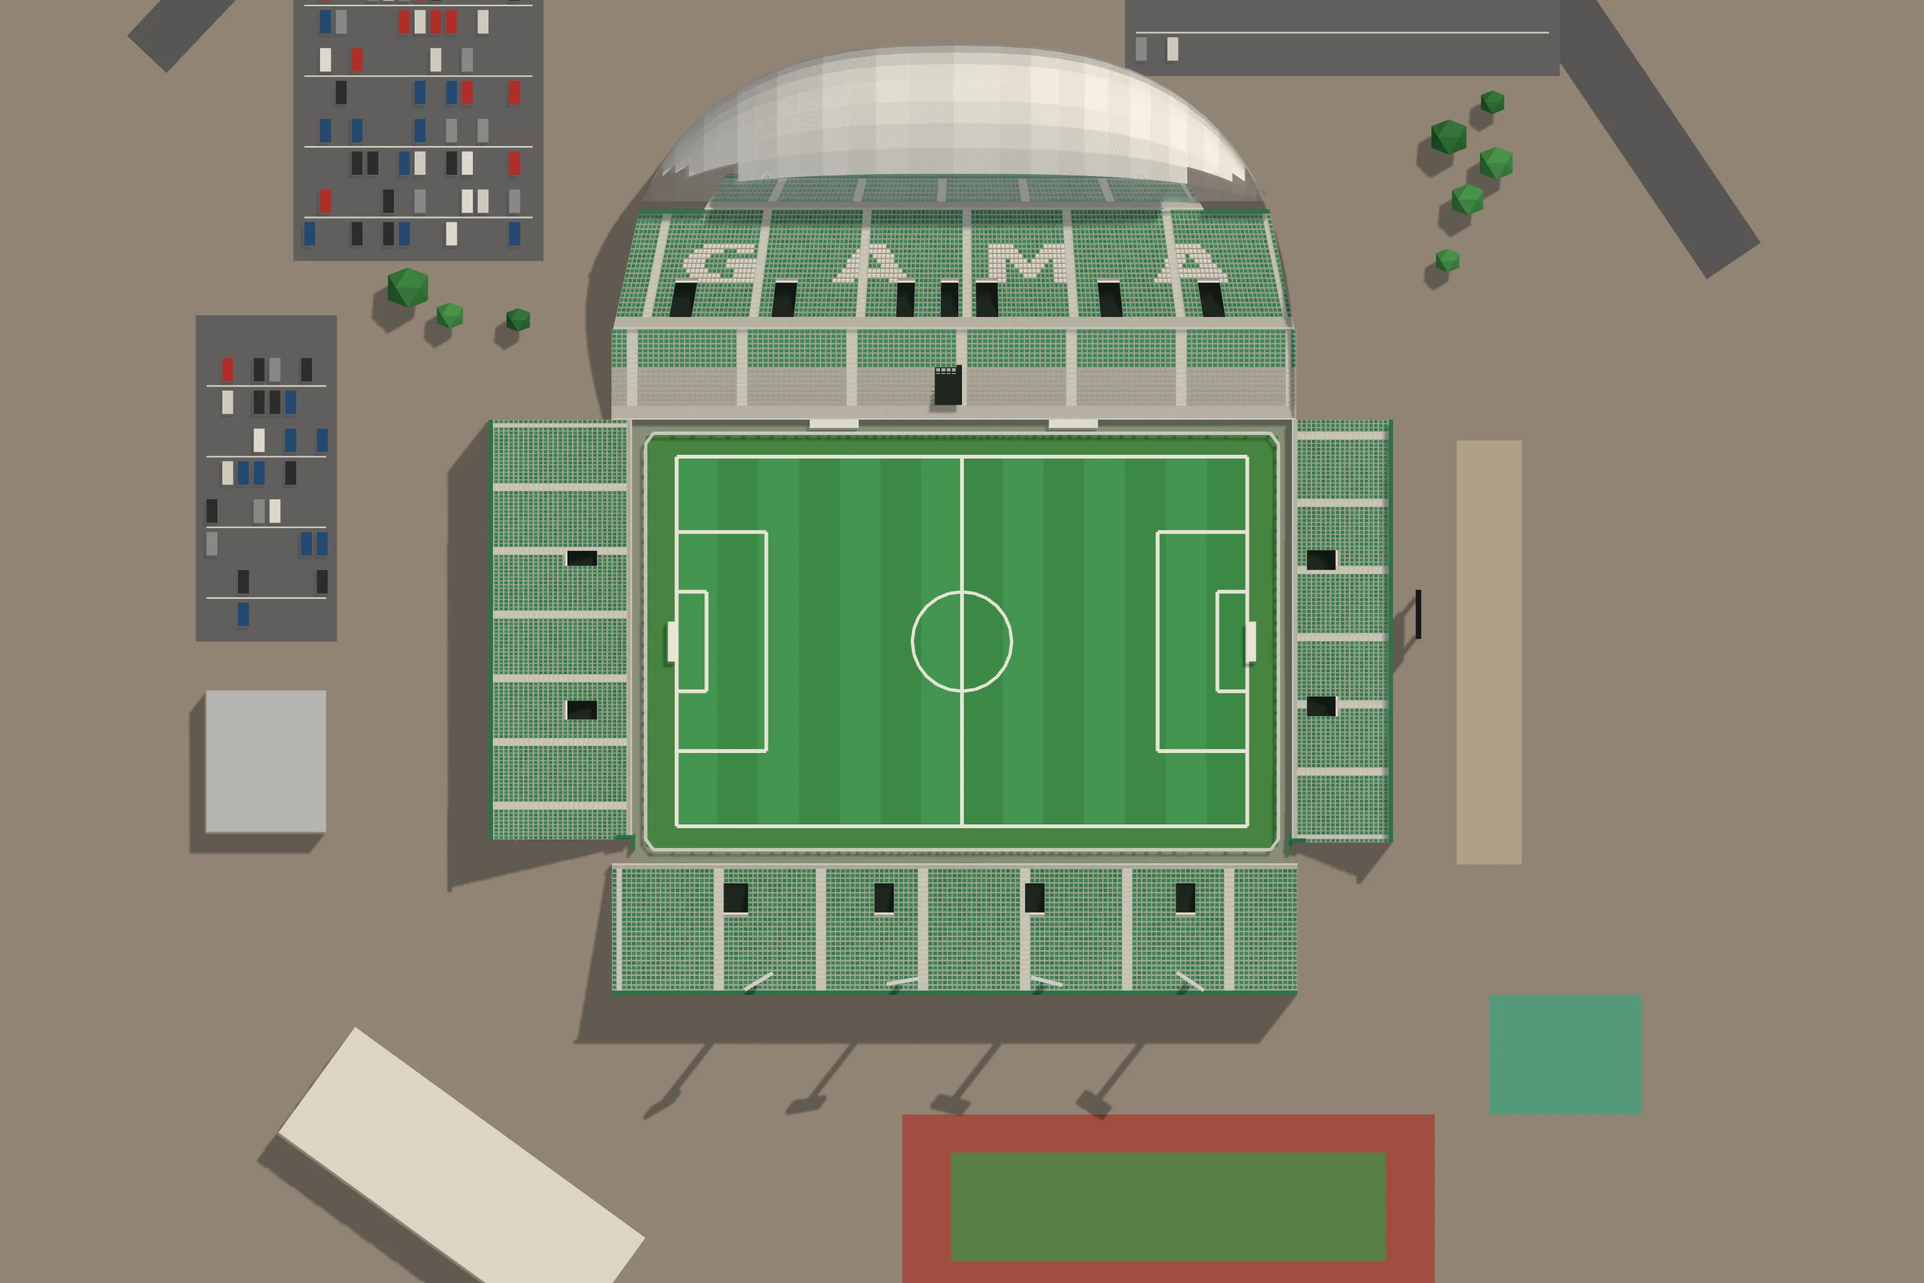
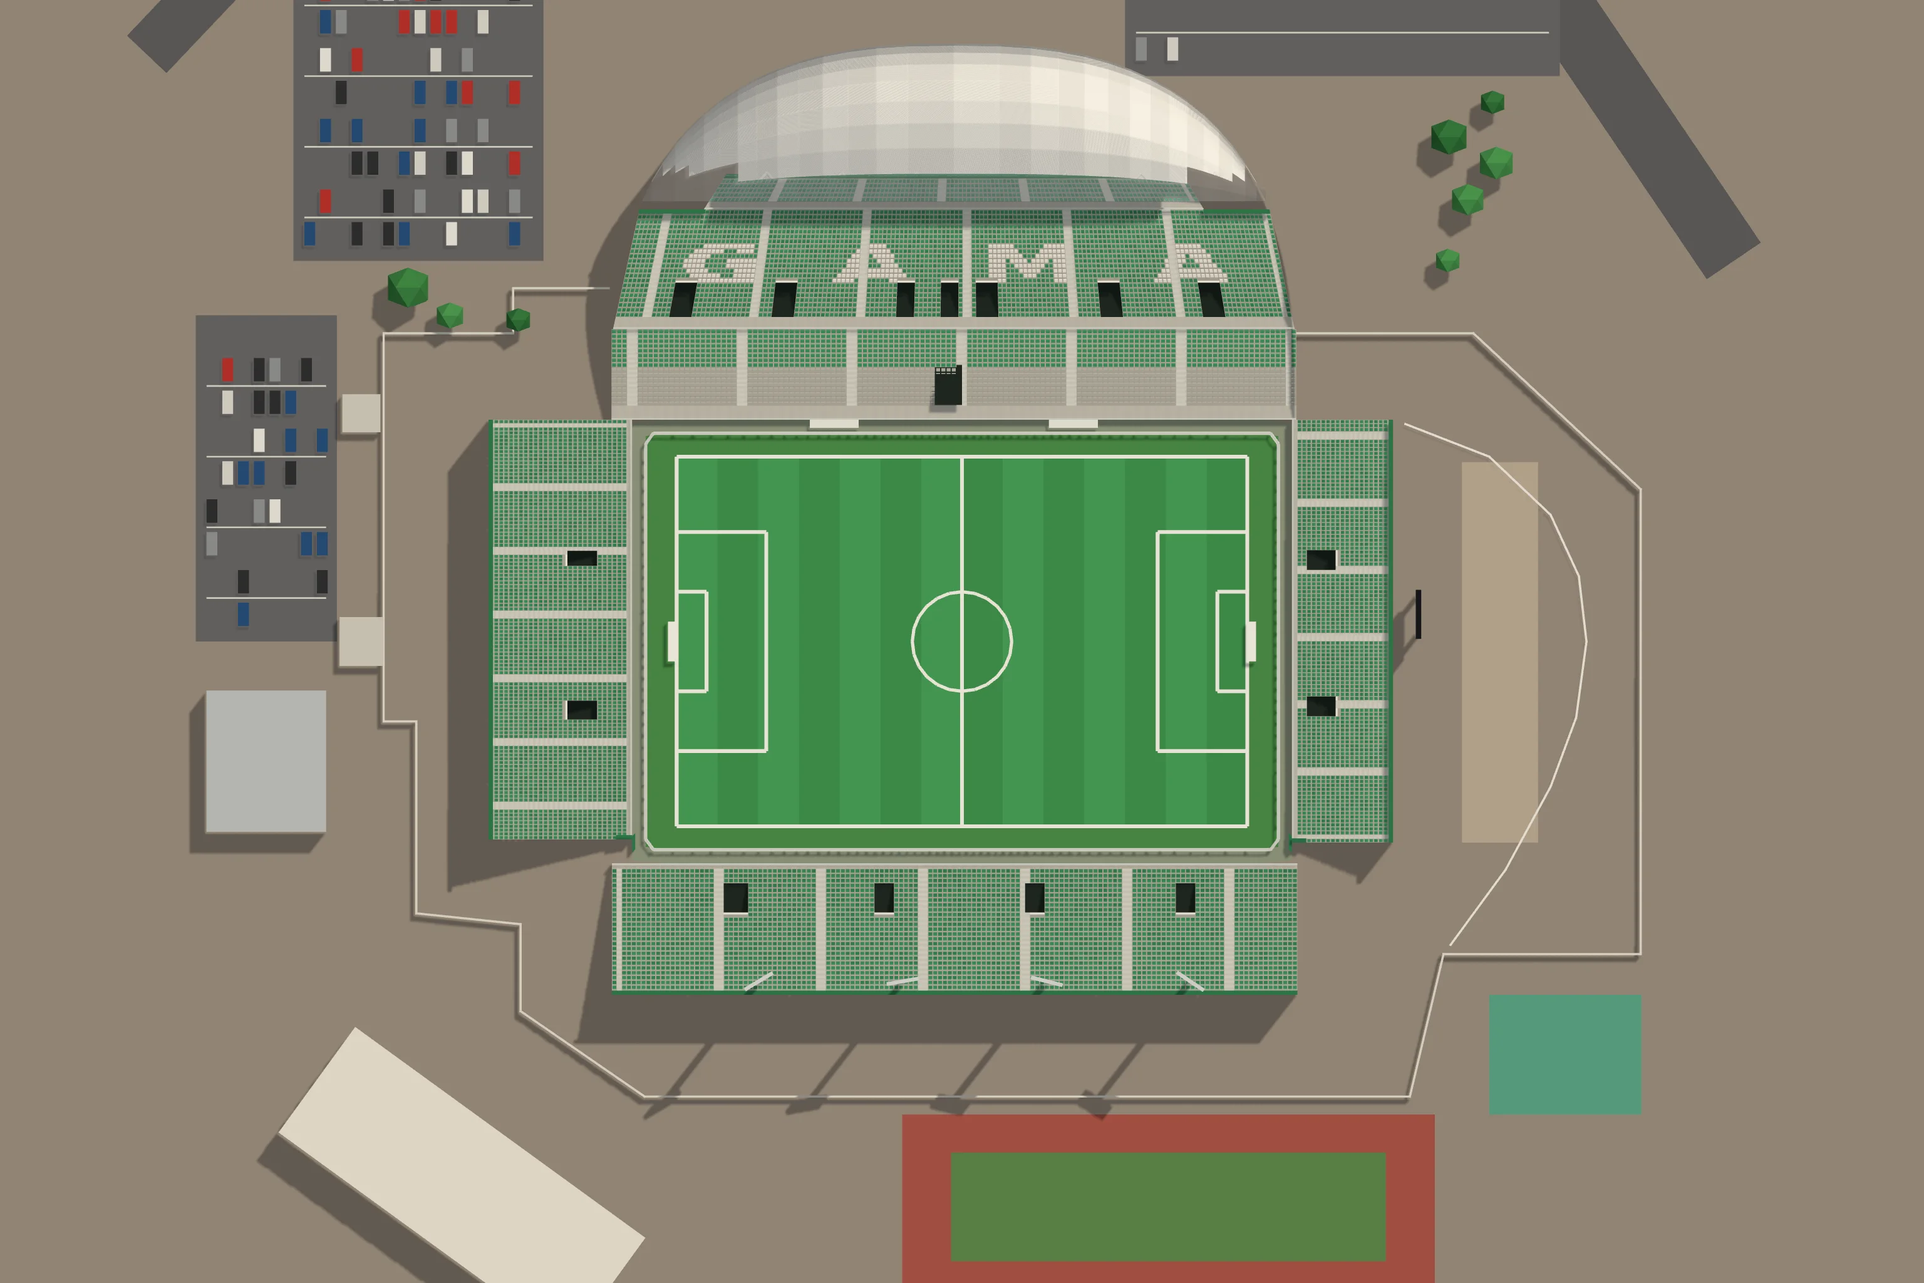
Bezerrão: o muro do terreno e a mureta da rampa
Claude-Session: https://claude.ai/code/session_019hwwMAyyP7ZAvyq6wYTetr

diff --git a/cenario3d/planta.html b/cenario3d/planta.html
@@ -289,24 +289,24 @@ button:focus-visible, input:focus-visible { outline: 2px solid var(--selecao); o
 
 <script type="module">
 import * as THREE from 'https://cdn.jsdelivr.net/npm/three@0.160.0/build/three.module.min.js';
-import { planoDaCasa, montarCasa, juntarBlocos, lugarDoDecalque, placasDoLote, segmentosDoMuro, carrosDoEstacionamento, portaoDoEstacionamento } from './js/casas3d.js?v=fb1b30dfa0';
-import { montarModelos } from './js/modelos3d.js?v=fb1b30dfa0';
-import { moldeDaPeca, comTransformador } from './js/props3d.js?v=fb1b30dfa0';
-import { ATLAS } from './js/modelos_atlas.js?v=fb1b30dfa0';
-import { Construtor, sorteio } from './js/construtor3d.js?v=fb1b30dfa0';
-import { gerarProposta, MAPAS, MAPA_DO_PORTE, RUA, LONGE_DO_ESTADIO_M, cisaoDaPraca, VAO_CIDADES_M, PRAIA_A_MAIS } from './js/proposta.js?v=fb1b30dfa0';
-import { montarSede, nivelQueCabe } from './js/sede3d.js?v=fb1b30dfa0';
-import { onibus as onibusDetalhe, juntar as juntarDetalhe } from './js/detalhe3d.js?v=fb1b30dfa0';
-import { montarLoteDeVeraneio, plantaDoLote, festaNoMundo, noMundoDoLote, cenaDaFesta, detalheDaCasaDaFesta } from './js/veraneio3d.js?v=fb1b30dfa0';
-import { montarCaravana, cenaDaCaravana } from './js/caravana3d.js?v=fb1b30dfa0';
-import { montarEstacao, montarTunel, montarCarro, TREM } from './js/metro3d.js?v=fb1b30dfa0';
-import { montarShopping, montarDelegacia, montarPraca, montarIgreja, montarEscola, montarHospital } from './js/equip3d.js?v=fb1b30dfa0';
-import { montarEquipAntigo, TIPOS_ANTIGOS } from './js/equip_antigo3d.js?v=fb1b30dfa0';
-import { PECAS_PRAIA, montarPecaDaPraia } from './js/praia3d.js?v=fb1b30dfa0';
-import { ESPECIES_LP, FLORA_LP, montarArvoreLowpoly, montarAsDez, facesDaArvore, especieLowpolyDe } from './js/arvores_lowpoly.js?v=fb1b30dfa0';
-import { plantarMato, montarMato, LONGE_M, DENSIDADE, LADRILHO_M } from './js/mato3d.js?v=fb1b30dfa0';
-import { ESTADIOS_JOGO, montarEstadioJogo, glbDoEstadio, cortarEstadio, plantaDoEstadio, modeloDaLotacao, nomeDoLetreiro, nomeComAcento, marcaDoEstadio, BOCAS_DOS_PORTOES, BILHETERIAS_DA_RUA } from './js/estadios3d.js?v=fb1b30dfa0';
-import { PECAS_AMBULANTES, montarAmbulante } from './js/ambulantes3d.js?v=fb1b30dfa0';
+import { planoDaCasa, montarCasa, juntarBlocos, lugarDoDecalque, placasDoLote, segmentosDoMuro, carrosDoEstacionamento, portaoDoEstacionamento } from './js/casas3d.js?v=76a33788e3';
+import { montarModelos } from './js/modelos3d.js?v=76a33788e3';
+import { moldeDaPeca, comTransformador } from './js/props3d.js?v=76a33788e3';
+import { ATLAS } from './js/modelos_atlas.js?v=76a33788e3';
+import { Construtor, sorteio } from './js/construtor3d.js?v=76a33788e3';
+import { gerarProposta, MAPAS, MAPA_DO_PORTE, RUA, LONGE_DO_ESTADIO_M, cisaoDaPraca, VAO_CIDADES_M, PRAIA_A_MAIS } from './js/proposta.js?v=76a33788e3';
+import { montarSede, nivelQueCabe } from './js/sede3d.js?v=76a33788e3';
+import { onibus as onibusDetalhe, juntar as juntarDetalhe } from './js/detalhe3d.js?v=76a33788e3';
+import { montarLoteDeVeraneio, plantaDoLote, festaNoMundo, noMundoDoLote, cenaDaFesta, detalheDaCasaDaFesta } from './js/veraneio3d.js?v=76a33788e3';
+import { montarCaravana, cenaDaCaravana } from './js/caravana3d.js?v=76a33788e3';
+import { montarEstacao, montarTunel, montarCarro, TREM } from './js/metro3d.js?v=76a33788e3';
+import { montarShopping, montarDelegacia, montarPraca, montarIgreja, montarEscola, montarHospital } from './js/equip3d.js?v=76a33788e3';
+import { montarEquipAntigo, TIPOS_ANTIGOS } from './js/equip_antigo3d.js?v=76a33788e3';
+import { PECAS_PRAIA, montarPecaDaPraia } from './js/praia3d.js?v=76a33788e3';
+import { ESPECIES_LP, FLORA_LP, montarArvoreLowpoly, montarAsDez, facesDaArvore, especieLowpolyDe } from './js/arvores_lowpoly.js?v=76a33788e3';
+import { plantarMato, montarMato, LONGE_M, DENSIDADE, LADRILHO_M } from './js/mato3d.js?v=76a33788e3';
+import { ESTADIOS_JOGO, montarEstadioJogo, glbDoEstadio, cortarEstadio, plantaDoEstadio, modeloDaLotacao, nomeDoLetreiro, nomeComAcento, marcaDoEstadio, BOCAS_DOS_PORTOES, BILHETERIAS_DA_RUA } from './js/estadios3d.js?v=76a33788e3';
+import { PECAS_AMBULANTES, montarAmbulante } from './js/ambulantes3d.js?v=76a33788e3';
 
 const $ = id => document.getElementById(id);
 const aviso = $('aviso');
@@ -323,25 +323,25 @@ function carregarScript(src) {
 }
 window.TO = window.TO || { dados: {} };
 try {
-  await carregarScript('dados/torcidas.js?v=fb1b30dfa0');
-  await carregarScript('dados/times.js?v=fb1b30dfa0');
-  await carregarScript('dados/cena_estadio.js?v=fb1b30dfa0');
-  await carregarScript('dados/cidades.js?v=fb1b30dfa0');
-  await carregarScript('dados/estadios.js?v=fb1b30dfa0');
-  await carregarScript('dados/escudos.js?v=fb1b30dfa0');
+  await carregarScript('dados/torcidas.js?v=76a33788e3');
+  await carregarScript('dados/times.js?v=76a33788e3');
+  await carregarScript('dados/cena_estadio.js?v=76a33788e3');
+  await carregarScript('dados/cidades.js?v=76a33788e3');
+  await carregarScript('dados/estadios.js?v=76a33788e3');
+  await carregarScript('dados/escudos.js?v=76a33788e3');
   /* o manifesto das faixas de verdade (a arte do dono, 29/09/2026): a arquibancada estende a da torcida */
-  await carregarScript('dados/faixas.js?v=fb1b30dfa0').catch(() => {});
+  await carregarScript('dados/faixas.js?v=76a33788e3').catch(() => {});
   /* O DOMÍNIO DOS BAIRROS (o dono, 30/09/2026): as sedes repetidas num
      bairro saem espalhadas (nos dados, na carga) e os bares ganham o
      bairro deles — o mesmo módulo do jogo (js/mundo/dominio.js) */
-  await carregarScript('js/dominio.js?v=fb1b30dfa0').catch(() => {});
+  await carregarScript('js/dominio.js?v=76a33788e3').catch(() => {});
 } catch (e) {
   aviso.textContent = 'A planta da cidade não carregou (' + e.message + '). Recarregue a página.';
   throw e;
 }
 /* os PNG dos escudos, embutidos (o montar.sh gera): sem o arquivo, o
    caminho vai direto pra img/escudos/ */
-await carregarScript('dados/escudos_embutidos.js?v=fb1b30dfa0').catch(() => {});
+await carregarScript('dados/escudos_embutidos.js?v=76a33788e3').catch(() => {});
 const P = TO.dados.plantaEstadio, K = P.CIDADE, M = P.METRO, CALC = K.CALC;
 /* o mapa da vez (o pequeno, o médio ou o grande, montado pra praça
    escolhida): quem monta é usarMapa, lá embaixo */

diff --git a/cenario3d/dados/estadios_cenas.js b/cenario3d/dados/estadios_cenas.js
@@ -16130,7 +16130,7 @@ window.__ESTADIOS = {
    "visitante": 3
   },
   "foto": {
-   "imagem": "img/cenas/estadio_bezerrao.webp?v=f37f5a07",
+   "imagem": "img/cenas/estadio_bezerrao.webp?v=6d089be6",
    "mascara": "384;384;384;384;384;384;384;384;384;384;384;384;384;384;384;384;384;384;384;384;384;384;384;384;384;384;384;384;384;384;384;384;384;384;384;137,107,140;137,106,141;138,105,141;139,103,142;139,102,143;140,101,143;140,101,143;122,140,122;122,140,122;122,140,122;122,140,122;122,140,122;122,140,122;122,140,122;122,140,122;122,140,122;122,140,122;122,140,122;122,140,122;122,140,122;122,140,122;122,140,122;122,140,122;122,140,122;122,140,122;122,140,122;122,140,122;122,140,122;122,139,123;122,138,124;97,2,23,137,125;97,3,16,152,116;97,5,14,152,116;97,6,13,152,116;97,8,11,152,116;97,9,10,152,116;97,11,8,152,8,2,106;97,12,7,152,7,3,106;97,14,5,152,5,5,106;97,15,4,152,4,6,106;97,17,2,152,2,8,106;97,18,1,152,1,9,106;97,181,106;97,181,106;97,181,106;97,181,106;97,181,106;97,181,106;97,181,106;97,181,106;97,181,106;97,32,126,23,106;97,31,128,22,106;97,31,128,22,106;97,31,128,22,106;97,31,128,22,106;97,31,128,22,106;97,31,128,22,106;97,31,128,22,106;97,31,128,22,106;97,31,128,22,106;97,31,128,22,106;97,31,128,22,106;97,31,128,22,106;97,31,128,22,106;97,31,128,22,106;97,31,128,22,106;97,31,128,22,106;97,31,128,22,106;97,31,128,22,106;97,31,128,22,106;97,31,128,22,106;97,31,128,22,106;97,31,128,22,106;97,31,128,22,106;97,31,128,22,106;97,31,128,22,106;97,31,128,22,106;97,31,128,22,106;97,31,128,22,106;97,31,128,22,106;97,31,128,22,106;97,31,128,22,106;97,31,128,22,106;97,31,128,22,106;97,31,128,22,106;97,31,128,22,106;97,31,128,22,106;97,31,128,22,106;97,31,128,22,106;97,31,128,22,106;97,31,128,22,106;97,31,128,22,106;97,31,128,22,106;97,31,128,22,106;97,31,128,22,106;97,31,128,22,106;97,31,128,22,106;97,31,128,22,106;97,31,128,22,106;97,31,128,22,106;97,31,128,22,106;97,31,128,22,106;97,31,128,22,106;97,31,128,22,106;97,31,128,22,106;97,31,128,22,106;97,31,128,22,106;97,31,128,22,106;97,31,128,22,106;97,31,128,22,106;97,31,128,22,106;97,31,128,22,106;97,31,128,22,106;97,31,128,22,106;97,31,128,22,106;97,31,128,22,106;97,31,128,22,106;97,31,128,22,106;97,31,128,22,106;97,31,128,22,106;97,31,128,22,106;97,31,128,22,106;97,31,128,22,106;97,31,128,22,106;97,31,128,22,106;97,31,128,22,106;97,31,128,22,106;97,31,128,22,106;97,31,128,22,106;97,31,128,22,106;97,31,128,22,106;97,31,128,22,106;97,27,2,2,128,2,1,19,106;97,26,3,3,126,3,2,18,106;97,24,5,132,4,16,106;97,22,7,132,6,14,106;97,21,4,137,6,13,106;97,19,4,141,6,11,106;97,17,5,143,6,10,106;97,16,4,147,6,8,106;97,14,5,149,7,6,106;97,12,5,153,6,5,106;97,11,4,156,7,3,106;97,9,5,159,7,1,106;97,7,5,162,113;97,6,5,165,111;97,4,5,168,110;97,2,6,171,108;97,1,5,174,107;101,178,105;100,180,104;98,184,102;97,186,101;95,190,99;93,193,98;92,196,96;90,199,95;89,202,93;87,205,92;86,208,90;84,211,89;84,213,87;128,128,128;384;384;384;384;384;384;384;384;384;384;384;384;384;384;384;384;384;384;384;384;384;384;384;384;384;384;384;384;384;384;384;384;384;384;384;384;384;384;384;384;384;384;384;384;384;384;384;384;384;384;384;384;384;384;384;384;384"
   },
   "cena": {

diff --git a/cenario3d/js/jogo2d.js b/cenario3d/js/jogo2d.js
@@ -17,7 +17,7 @@
    cartão da partida cai perto da hora da bola e nada do que conta o
    placar passa na frente dele.
    ========================================================= */
-import { CASCA } from './jogo_casca.js?v=fb1b30dfa0';
+import { CASCA } from './jogo_casca.js?v=76a33788e3';
 
 const carregarScript = src => new Promise((ok, erro) => {
   const s = document.createElement('script');
@@ -31,18 +31,18 @@ async function montarJogo() {
   caixa.innerHTML = CASCA;
   while (caixa.firstChild) document.body.appendChild(caixa.firstChild);
   /* os escudos, as fotos das praças e as bandeiras embutidos (o `IMG()` do jogo procura aqui antes do caminho) */
-  await carregarScript('dados/imagens_jogo.js?v=fb1b30dfa0').catch(() => {});
+  await carregarScript('dados/imagens_jogo.js?v=76a33788e3').catch(() => {});
   /* os estádios low-poly das cenas (ferramentas/estadios/assar.js): antes do jogo, que monta as cenas quando carrega */
-  await carregarScript('dados/estadios_cenas.js?v=fb1b30dfa0').catch(() => {});
-  await carregarScript('dados/arredores_cenas.js?v=fb1b30dfa0').catch(() => {});
+  await carregarScript('dados/estadios_cenas.js?v=76a33788e3').catch(() => {});
+  await carregarScript('dados/arredores_cenas.js?v=76a33788e3').catch(() => {});
   /* sem o rolo do feed: a tela entre os jogos é o portal */
   window.TO = window.TO || {};
   TO.semFeed = true;
-  await carregarScript('js/jogo.js?v=fb1b30dfa0');
-  await carregarScript('js/portal.js?v=fb1b30dfa0').catch(err => console.error('o portal não carregou:', err));
+  await carregarScript('js/jogo.js?v=76a33788e3');
+  await carregarScript('js/portal.js?v=76a33788e3').catch(err => console.error('o portal não carregou:', err));
   /* o boneco das cenas de imagem (os dois níveis afinados, em base64) */
-  if (!TO.dados.bonecoPertoGLB) await carregarScript('dados/boneco_glb.js?v=fb1b30dfa0').catch(() => {});
-  await import('./bonecos3_global.js?v=fb1b30dfa0').catch(err => console.error('o boneco das cenas não carregou:', err));
+  if (!TO.dados.bonecoPertoGLB) await carregarScript('dados/boneco_glb.js?v=76a33788e3').catch(() => {});
+  await import('./bonecos3_global.js?v=76a33788e3').catch(err => console.error('o boneco das cenas não carregou:', err));
   ligar();
 }
 

diff --git a/cenario3d/jogo.html b/cenario3d/jogo.html
@@ -9,16 +9,16 @@
 <link rel="preconnect" href="https://fonts.googleapis.com">
 <link rel="preconnect" href="https://fonts.gstatic.com" crossorigin>
 <link rel="stylesheet" href="https://fonts.googleapis.com/css2?family=Barlow+Semi+Condensed:wght@500;600;700&family=Barlow:wght@400;500;600&family=IBM+Plex+Mono:wght@400;500&display=swap">
-<link rel="stylesheet" href="css/jogo.css?v=fb1b30dfa0">
-<link rel="stylesheet" href="css/jogo3d.css?v=fb1b30dfa0">
-<link rel="stylesheet" href="css/portal.css?v=fb1b30dfa0">
-<link rel="stylesheet" href="css/telas3d.css?v=fb1b30dfa0">
+<link rel="stylesheet" href="css/jogo.css?v=76a33788e3">
+<link rel="stylesheet" href="css/jogo3d.css?v=76a33788e3">
+<link rel="stylesheet" href="css/portal.css?v=76a33788e3">
+<link rel="stylesheet" href="css/telas3d.css?v=76a33788e3">
 <style>
 [hidden] { display: none !important; }
 html, body { height: 100%; margin: 0; }
 </style>
 </head>
 <body class="jogo3d">
-<script type="module" src="js/jogo2d.js?v=fb1b30dfa0"></script>
+<script type="module" src="js/jogo2d.js?v=76a33788e3"></script>
 </body>
 </html>

diff --git a/cenario3d/js/casas3d.js b/cenario3d/js/casas3d.js
@@ -60,10 +60,10 @@
    avançam (`rec`), e o letreiro, a pixação e a falha de reboco do
    bairro vão pro plano dessa parede, não pro da divisa.
    ========================================================= */
-import { Construtor, METRO, mureta, toldo, arSplit, sorteio } from './construtor3d.js?v=fb1b30dfa0';
-import { ATLAS } from './modelos_atlas.js?v=fb1b30dfa0';
+import { Construtor, METRO, mureta, toldo, arSplit, sorteio } from './construtor3d.js?v=76a33788e3';
+import { ATLAS } from './modelos_atlas.js?v=76a33788e3';
 /* as lojas do assalto (lojas3d.js): modelos de lote como os outros */
-import { TIPOS_LOJA, REC_LOJA, placaDaLoja } from './lojas3d.js?v=fb1b30dfa0';
+import { TIPOS_LOJA, REC_LOJA, placaDaLoja } from './lojas3d.js?v=76a33788e3';
 
 /* o arquivo de cada folha, pro bairro montar o material dele */
 export const arquivoDaFolha = folha => ATLAS[folha].arquivo;

diff --git a/cenario3d/js/ambulantes3d.js b/cenario3d/js/ambulantes3d.js
@@ -27,8 +27,8 @@
    que a planta acha o lugar dela na calçada do estádio. `sol`: o meio e
    o raio da copa ([x, z, r]), que o mapa desenha de perto.
    ========================================================= */
-import { Construtor, noMundo, placasNoMundo, sorteio, esfera, unit } from './construtor3d.js?v=fb1b30dfa0';
-import { Lugar, barra, tubo, cilindro, bloco, pano, toro, guardaSol, cadeiraPlastica, isopor, banqueta, CORES_SOL } from './praia3d.js?v=fb1b30dfa0';
+import { Construtor, noMundo, placasNoMundo, sorteio, esfera, unit } from './construtor3d.js?v=76a33788e3';
+import { Lugar, barra, tubo, cilindro, bloco, pano, toro, guardaSol, cadeiraPlastica, isopor, banqueta, CORES_SOL } from './praia3d.js?v=76a33788e3';
 
 const AQUI = Lugar();
 const escolha = (rnd, lista) => lista[Math.floor(rnd() * lista.length) % lista.length];

diff --git a/cenario3d/js/praia3d.js b/cenario3d/js/praia3d.js
@@ -36,8 +36,8 @@
    cadeira e a mesa de plástico) servem também os ambulantes da porta do
    estádio (ambulantes3d.js), na mesma folha.
    ========================================================= */
-import { Construtor, METRO, lerp, sub, soma, esc, unit, pv, noMundo, placasNoMundo, sorteio, varrer, esfera } from './construtor3d.js?v=fb1b30dfa0';
-import { montarArvoreLowpoly } from './arvores_lowpoly.js?v=fb1b30dfa0';
+import { Construtor, METRO, lerp, sub, soma, esc, unit, pv, noMundo, placasNoMundo, sorteio, varrer, esfera } from './construtor3d.js?v=76a33788e3';
+import { montarArvoreLowpoly } from './arvores_lowpoly.js?v=76a33788e3';
 
 const ALTO = [0, 1, 0];
 const escolha = (rnd, lista) => lista[Math.floor(rnd() * lista.length) % lista.length];

diff --git a/cenario3d/js/modelos3d.js b/cenario3d/js/modelos3d.js
@@ -32,8 +32,8 @@
    requadro da janela, toldo, ar-condicionado. O resto é pintura.
    ========================================================= */
 import * as THREE from 'https://cdn.jsdelivr.net/npm/three@0.160.0/build/three.module.min.js';
-import { ATLAS } from './modelos_atlas.js?v=fb1b30dfa0';
-import { Construtor, METRO, lerp, sub, soma, esc, pv, pe, unit, recuoPoligono, mureta, toldo, arSplit } from './construtor3d.js?v=fb1b30dfa0';
+import { ATLAS } from './modelos_atlas.js?v=76a33788e3';
+import { Construtor, METRO, lerp, sub, soma, esc, pv, pe, unit, recuoPoligono, mureta, toldo, arSplit } from './construtor3d.js?v=76a33788e3';
 
 /* =======================================================
    1. A IGREJA MATRIZ

diff --git a/cenario3d/js/props3d.js b/cenario3d/js/props3d.js
@@ -26,8 +26,8 @@
    poste vira uma haste de longe; o resto, que é miúdo, some.
    ========================================================= */
 import * as THREE from 'https://cdn.jsdelivr.net/npm/three@0.160.0/build/three.module.min.js';
-import { ATLAS } from './modelos_atlas.js?v=fb1b30dfa0';
-import { Construtor, METRO, lerp } from './construtor3d.js?v=fb1b30dfa0';
+import { ATLAS } from './modelos_atlas.js?v=76a33788e3';
+import { Construtor, METRO, lerp } from './construtor3d.js?v=76a33788e3';
 
 /* as cores que o vértice dá pro que sai claro na folha */
 const COR_CESTO = ['#6aa33a', '#d2b53a', '#3f82ad', '#8b6a3c', '#b8452f'];

diff --git a/cenario3d/js/mato3d.js b/cenario3d/js/mato3d.js
@@ -19,8 +19,8 @@
 
    Tudo em metros; `noMundo` converte. A mesma semente dá o mesmo mato.
    ========================================================= */
-import { METRO, noMundo, sorteio } from './construtor3d.js?v=fb1b30dfa0';
-import { facesDaArvore, especieLowpolyDe } from './arvores_lowpoly.js?v=fb1b30dfa0';
+import { METRO, noMundo, sorteio } from './construtor3d.js?v=76a33788e3';
+import { facesDaArvore, especieLowpolyDe } from './arvores_lowpoly.js?v=76a33788e3';
 
 /* a área de chão de cada árvore (m²), por lugar */
 export const DENSIDADE = { mata: 70, cerrado: 200, caatinga: 150, sul: 90, praia: 120, cidade: 250 };

diff --git a/cenario3d/js/bonecos3_global.js b/cenario3d/js/bonecos3_global.js
@@ -14,7 +14,7 @@
    DOMContentLoaded: quem usa (a ponte, numa cena aberta pelo jogador)
    chega muito depois.
    ========================================================= */
-import { montar, desenharDeCima, desenharVitrine, limparDeCima, fotoDoTrofeu, fotoDaBriga, fotoDaCena, perdeu, bonecos } from './bonecos3_cena.js?v=fb1b30dfa0';
+import { montar, desenharDeCima, desenharVitrine, limparDeCima, fotoDoTrofeu, fotoDaBriga, fotoDaCena, perdeu, bonecos } from './bonecos3_cena.js?v=76a33788e3';
 
 window.TO = window.TO || {};
 TO.diaJogo = TO.diaJogo || {};

diff --git a/cenario3d/js/bonecos3_cena.js b/cenario3d/js/bonecos3_cena.js
@@ -103,7 +103,7 @@
       numa fase sorteada (quem sai junto não sai no mesmo pé).
    ========================================================= */
 import * as THREE from 'https://cdn.jsdelivr.net/npm/three@0.160.0/build/three.module.min.js';
-import { GLTFLoader, SkeletonUtils } from './GLTFLoader.js?v=fb1b30dfa0';
+import { GLTFLoader, SkeletonUtils } from './GLTFLoader.js?v=76a33788e3';
 
 /* onde o modelo mora, quando não vem embutido em base64: o detalhado
    (o do Blender) e os dois níveis afinados dele (ferramentas/afinar_boneco.mjs) */
